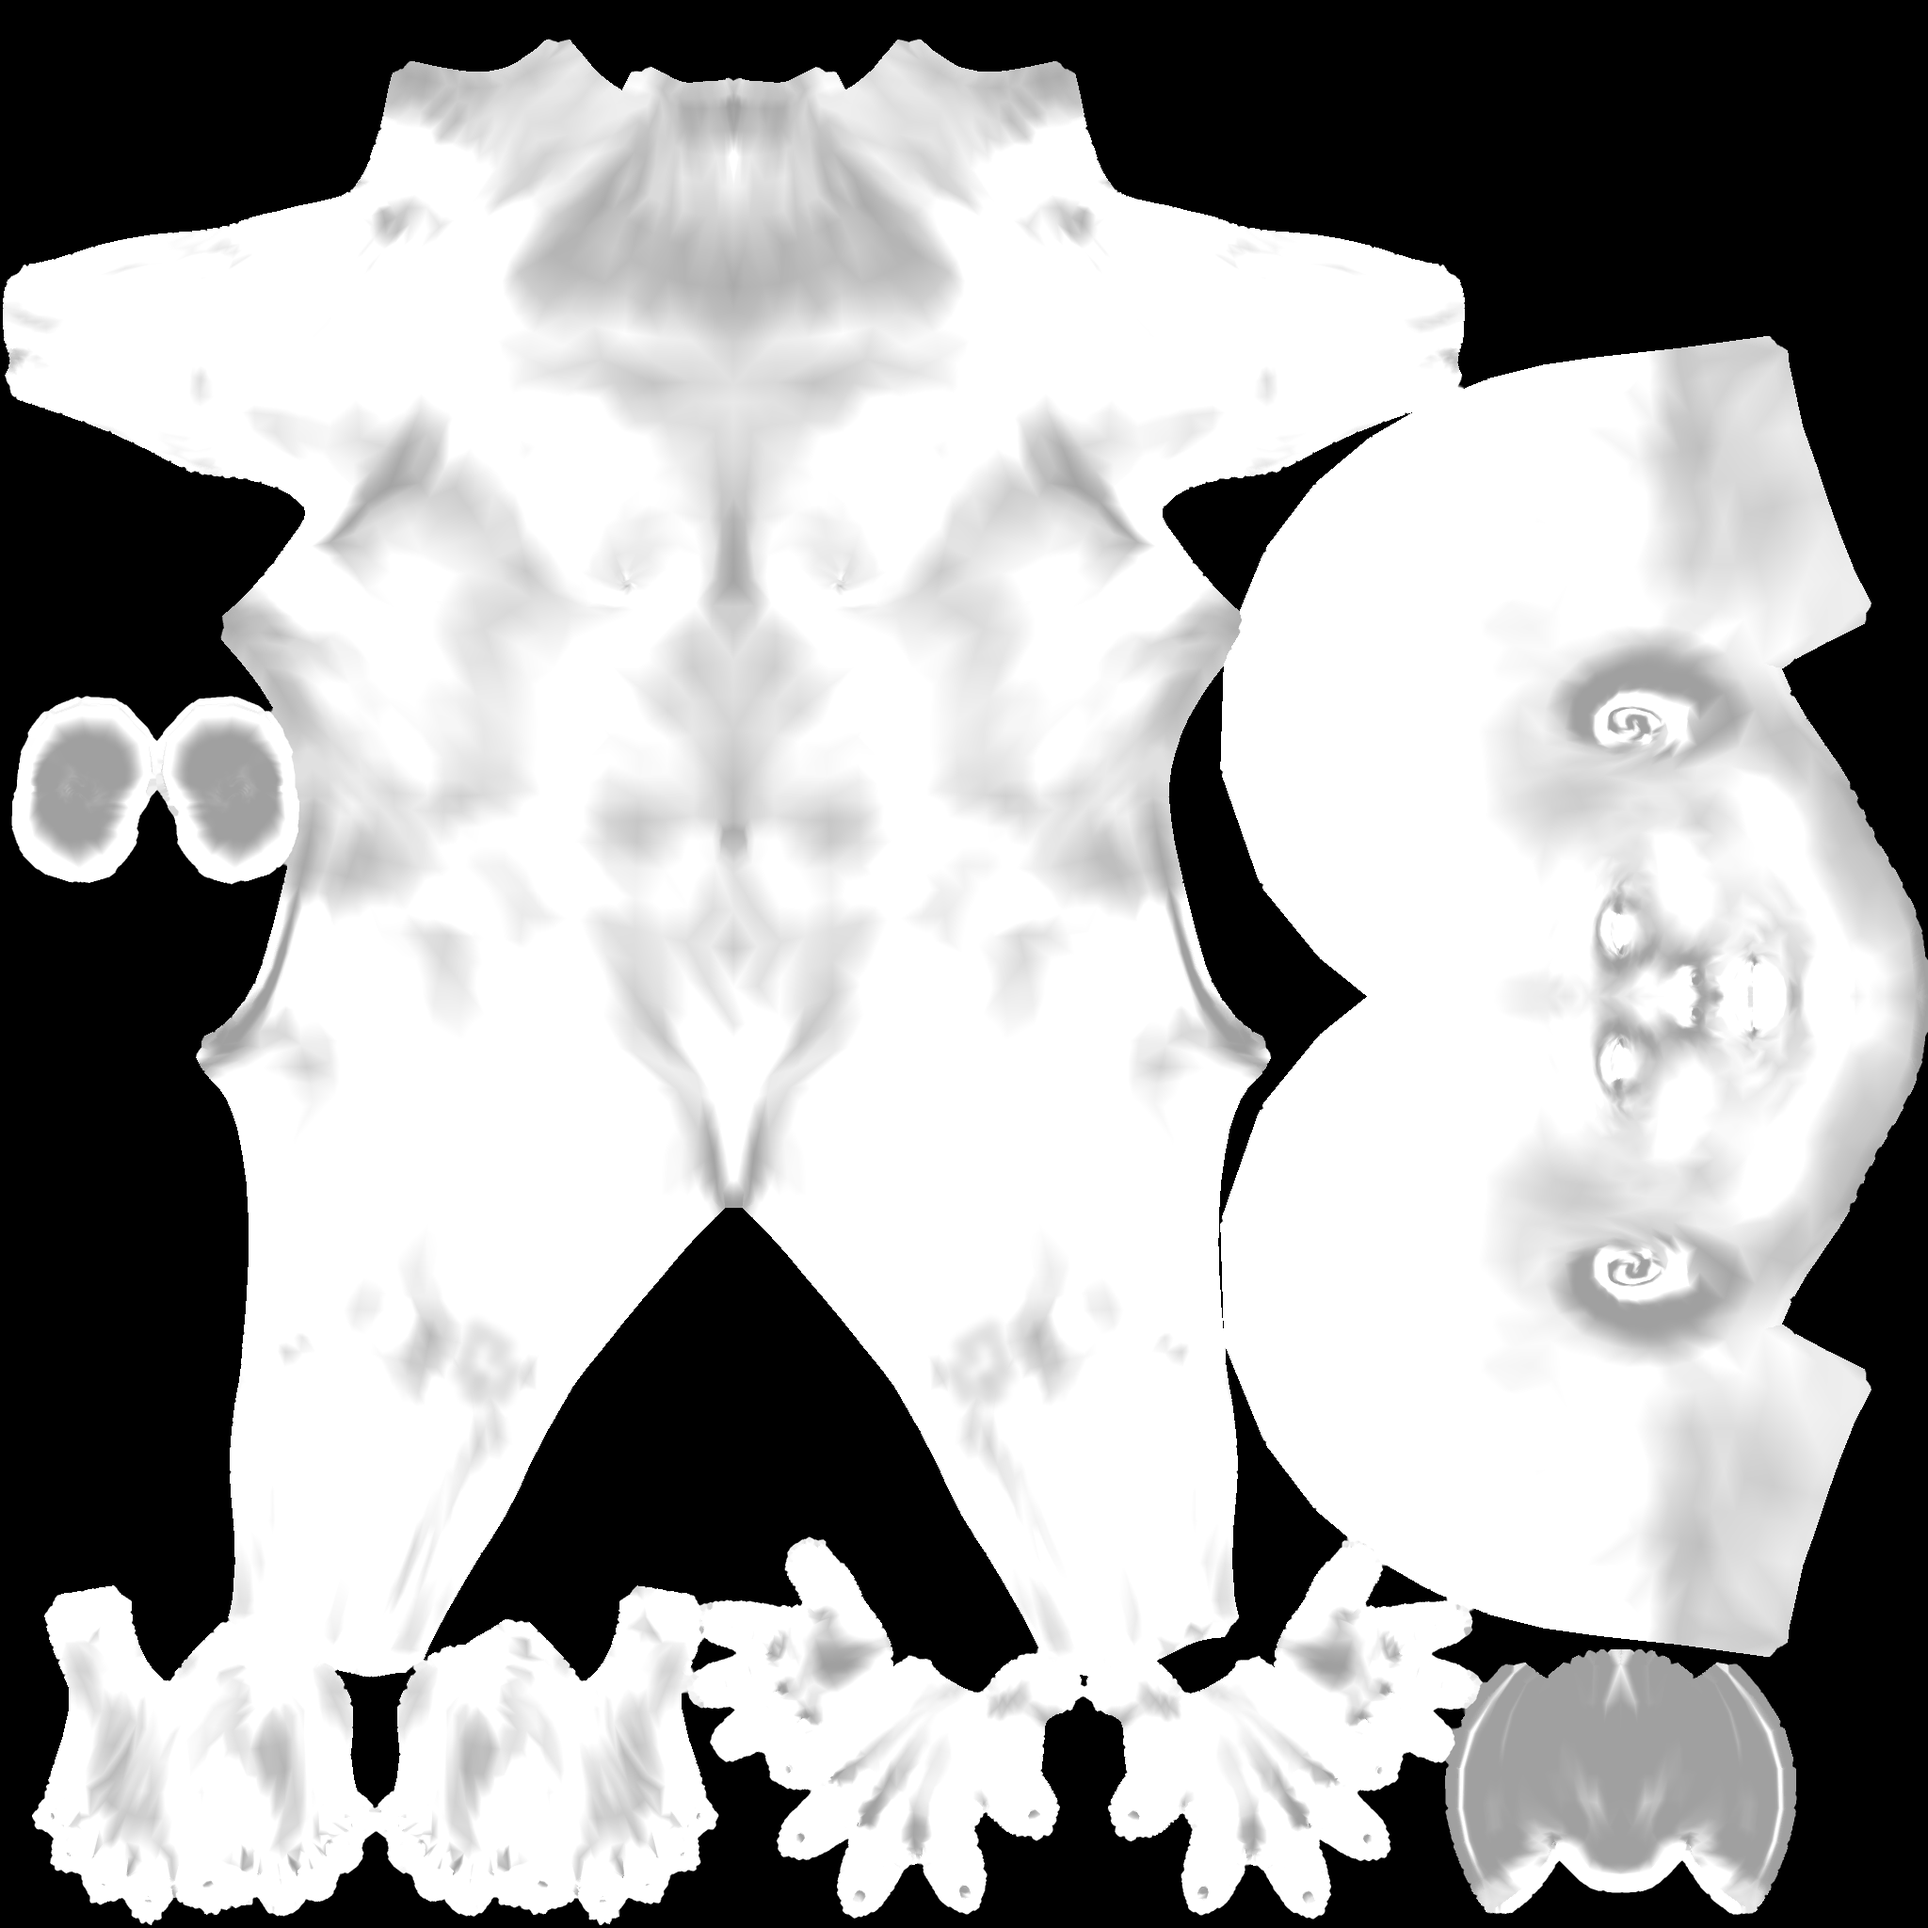
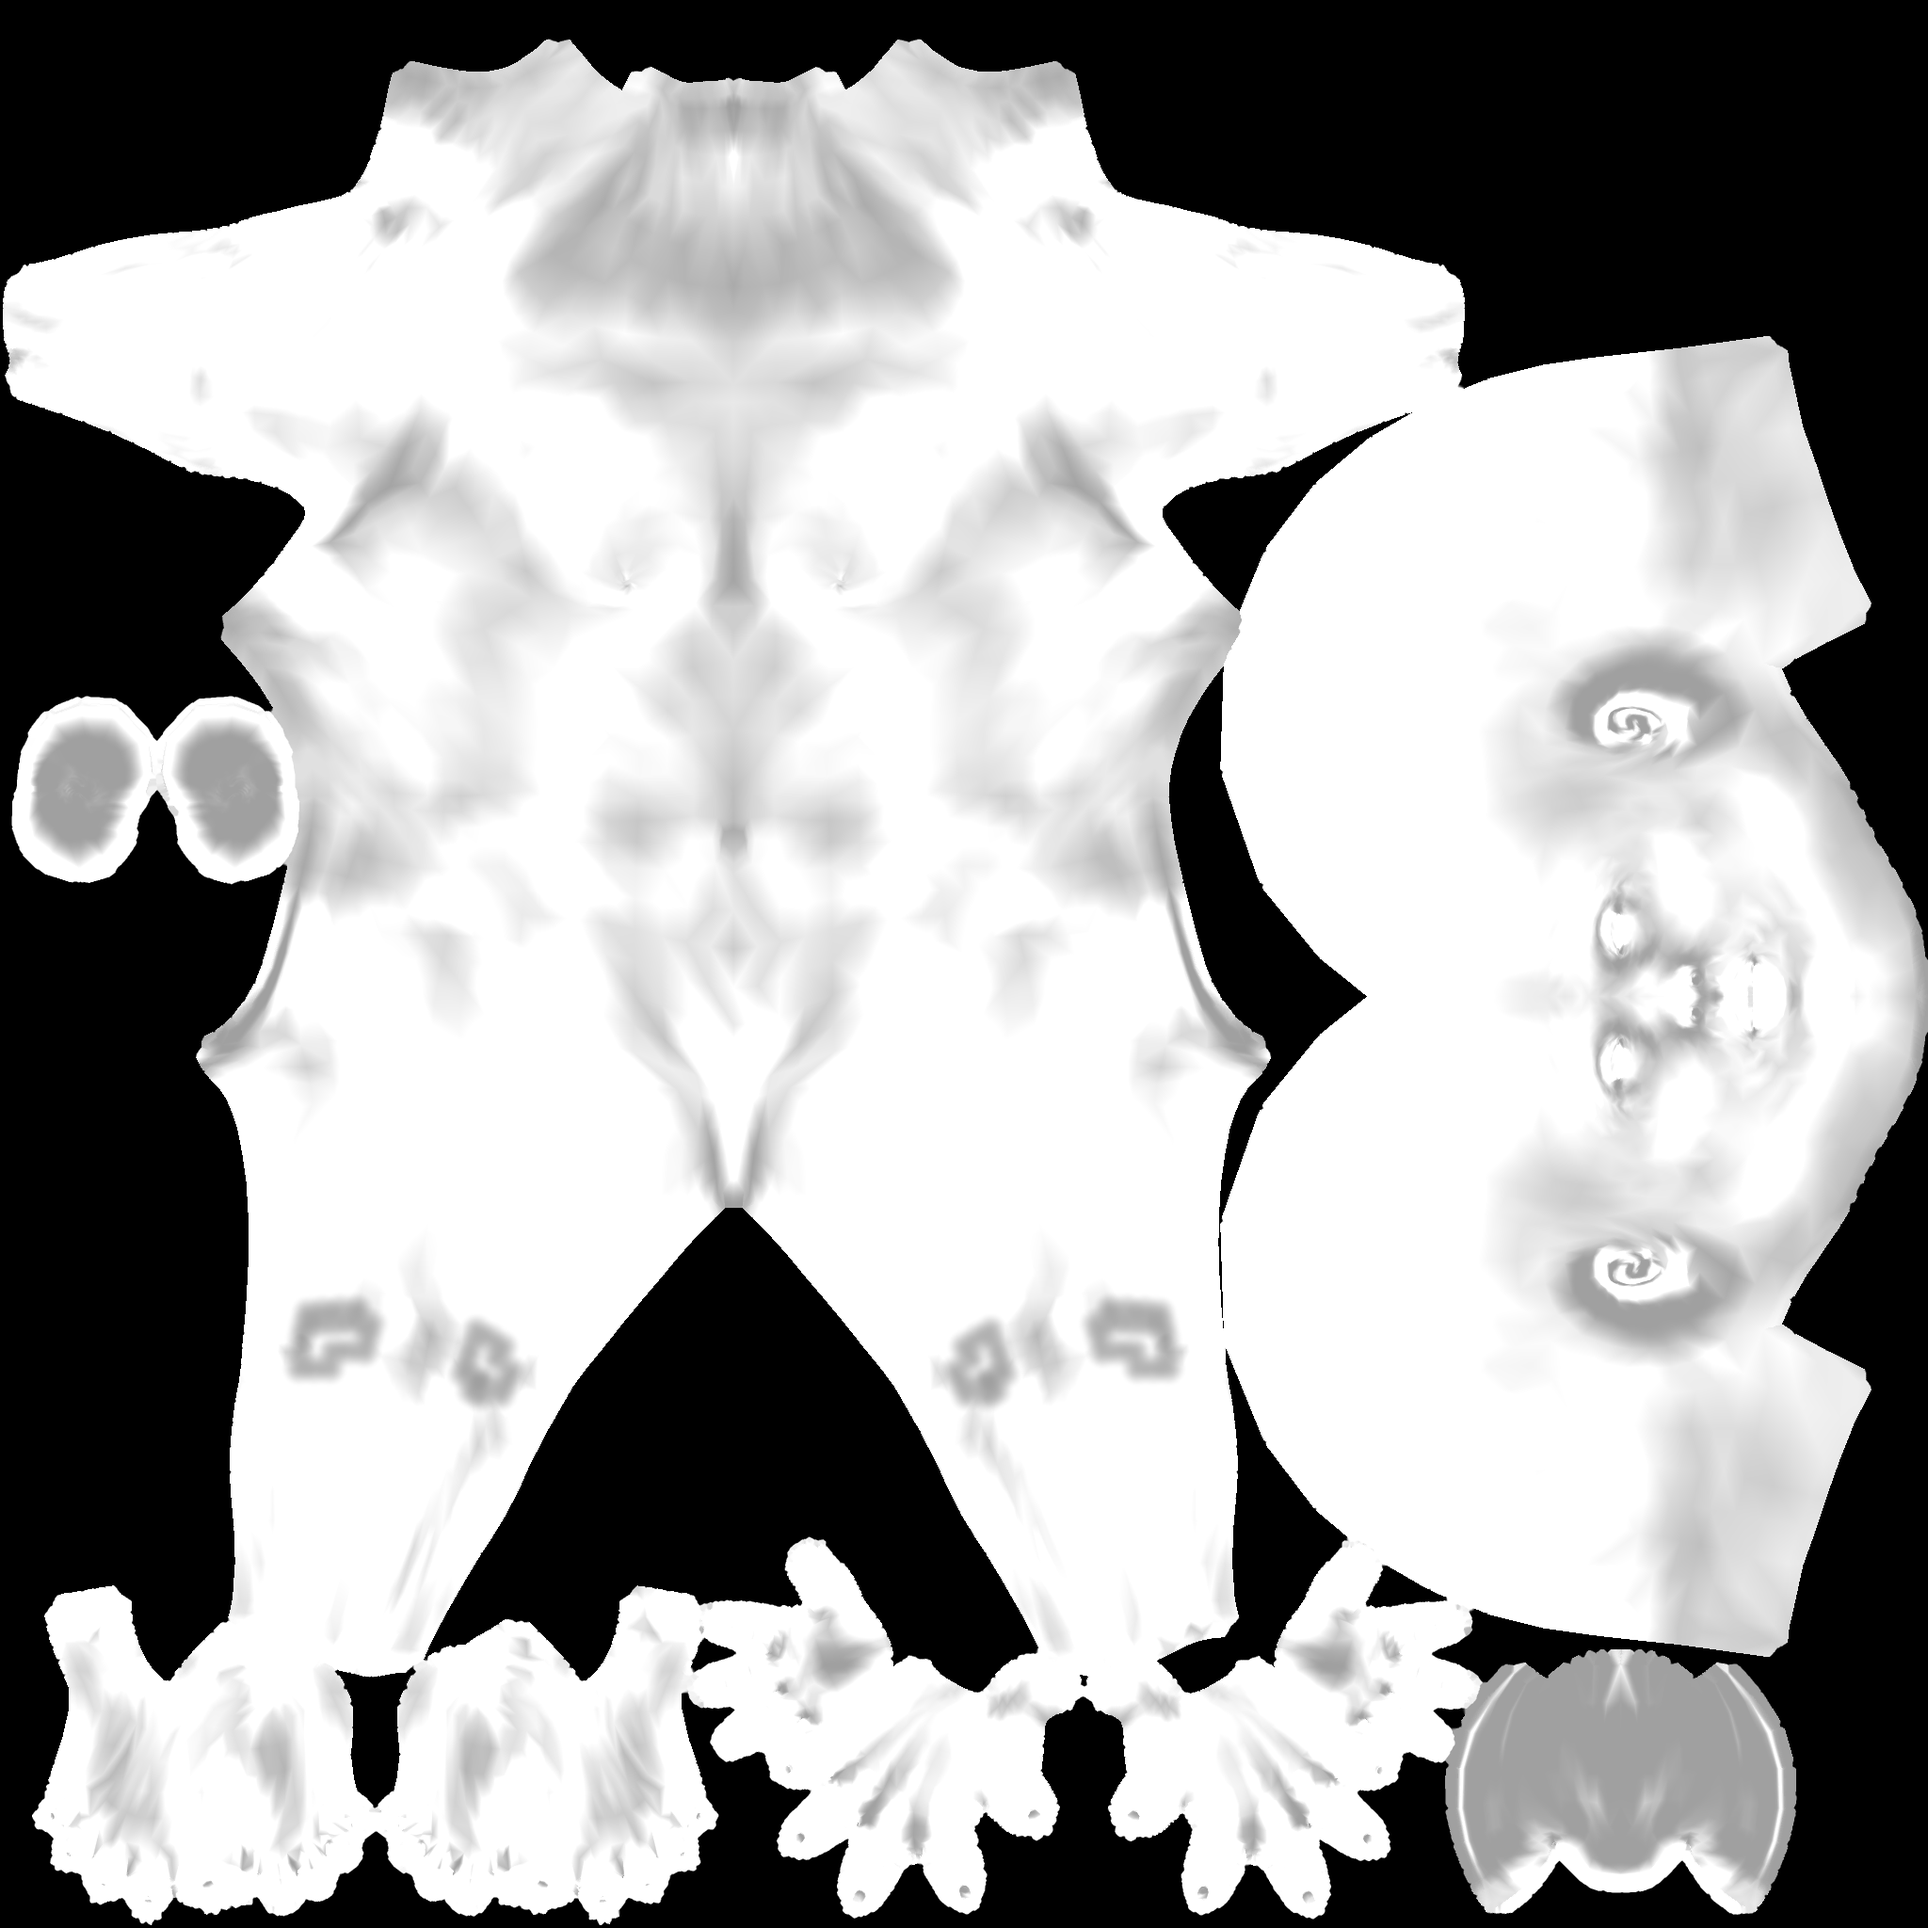
Making knee more defined

Changed region(s): [[0.125, 0.6562, 0.2812, 0.75], [0.5625, 0.6562, 0.625, 0.7188], [0.4688, 0.6875, 0.5312, 0.75]]

diff --git a/js/services/modelLoader.js b/js/services/modelLoader.js
@@ -114,7 +114,7 @@ export function loadModel(path, name, scene, controls, onLoaded = () => {}) {
                         const { canvas, context, threeTexture } = texturePool.getTexture(textureId);
 
                         // Upload texture
-                        const aoTexture = new THREE.TextureLoader().load('../assets/body_ao_original.png');
+                        const aoTexture = new THREE.TextureLoader().load('../assets/body_ao_modified.png');
                         aoTexture.flipY = false;
                         
                         // Use MeshLambertMaterial - softer lighting, good balance
